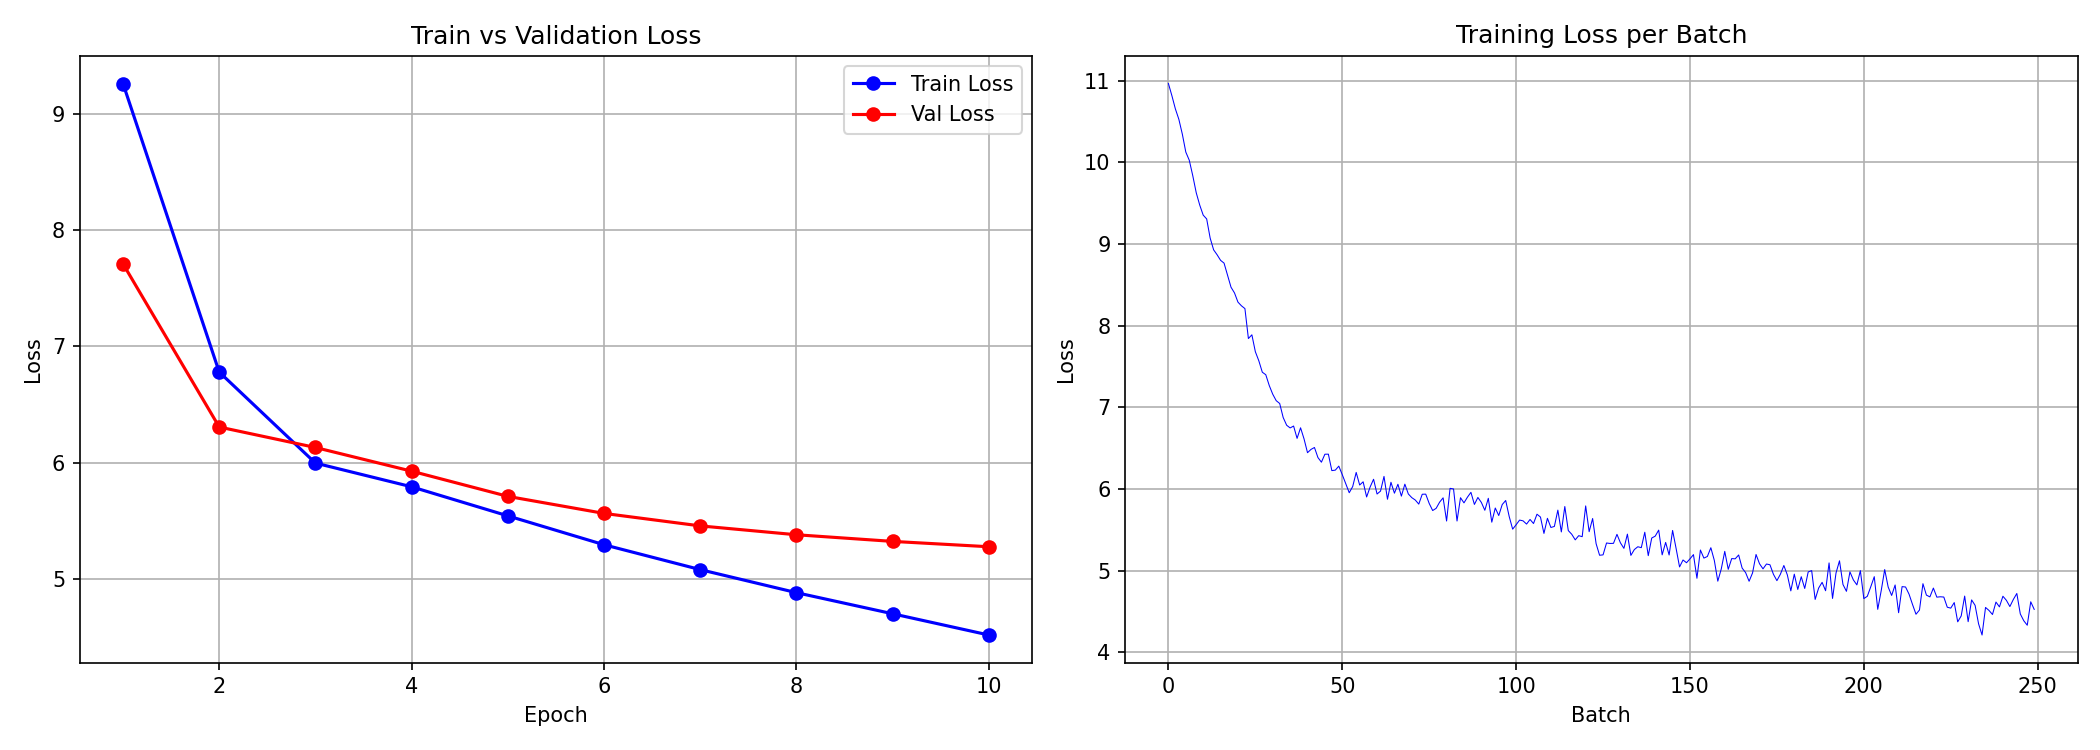
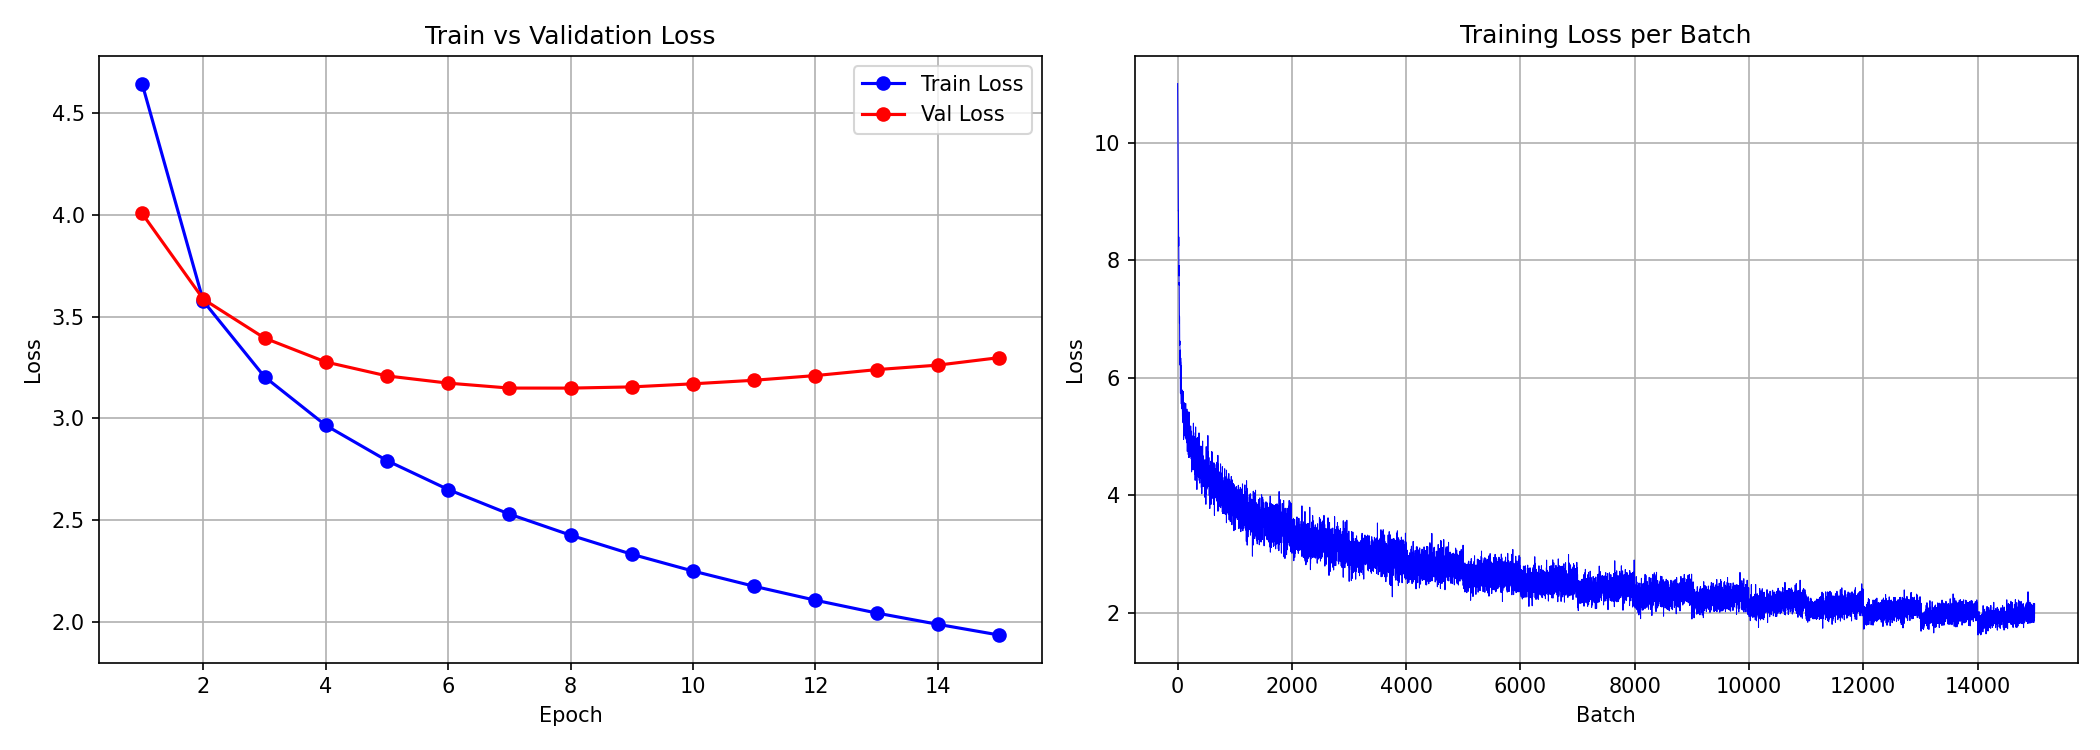
trying with hugging face/coco since flickr doesnt work

diff --git a/download_coco.py b/download_coco.py
@@ -1,0 +1,78 @@
+import torch
+import os
+from datasets import load_dataset
+from transformers import CLIPModel, CLIPProcessor
+
+device = torch.device("cuda" if torch.cuda.is_available() else "cpu")
+print(f"Using device: {device}")
+
+clip = CLIPModel.from_pretrained("openai/clip-vit-base-patch32").to(device)
+clip_processor = CLIPProcessor.from_pretrained("openai/clip-vit-base-patch32")
+clip.eval()
+
+os.makedirs('data/clip_features', exist_ok=True)
+
+print("Loading Flickr30k dataset...")
+dataset = load_dataset("nlphuji/flickr30k", split="test")
+print(f"Total examples: {len(dataset)}")
+
+all_features = []
+all_stories = []
+all_story_ids = []
+batch_size = 32
+max_stories = 20000
+
+for i in range(0, min(len(dataset), max_stories), batch_size):
+    batch = dataset[i:i + batch_size]
+
+    images = []
+    captions = []
+    ids = []
+
+    for j in range(len(batch['image'])):
+        try:
+            img = batch['image'][j].convert('RGB')
+            caps = batch['caption'][j]
+            if isinstance(caps, list):
+                caption = ' '.join(caps)
+            else:
+                caption = str(caps)
+            images.append(img)
+            captions.append(caption)
+            ids.append(str(i + j))
+        except:
+            continue
+
+    if len(images) == 0:
+        continue
+
+    try:
+        inputs = clip_processor(images=images, return_tensors="pt")
+        inputs = {k: v.to(device) for k, v in inputs.items()}
+
+        with torch.no_grad():
+            output = clip.vision_model(pixel_values=inputs["pixel_values"])
+            features = output.pooler_output.cpu()
+
+        for k in range(len(images)):
+            single_feat = features[k].unsqueeze(0).repeat(5, 1)
+            all_features.append(single_feat)
+            all_stories.append(captions[k])
+            all_story_ids.append(ids[k])
+
+    except Exception as e:
+        print(f"  Batch failed: {e}")
+        continue
+
+    if len(all_features) % 1000 == 0 and len(all_features) > 0:
+        print(f"Processed {len(all_features)} stories")
+
+# Final save
+final = {
+    'features': torch.stack(all_features),
+    'stories': all_stories,
+    'story_ids': all_story_ids
+}
+torch.save(final, 'data/clip_features/train_features.pt')
+print(f"\nDone! Saved {len(all_features)} stories")
+print(f"Feature tensor shape: {final['features'].shape}")

diff --git a/train.py b/train.py
@@ -16,7 +16,7 @@ max_len = 200
 clip_embed_dim = 768
 batch_size = 16
 learning_rate = 3e-4
-num_epochs = 10
+num_epochs = 15
 device = torch.device("cuda" if torch.cuda.is_available() else "cpu")
 
 print(f"Using device: {device}")
@@ -218,43 +218,12 @@ print(f"Loaded best model from epoch {best['epoch']}")
 test_loss = run_epoch(test_loader, training=False)
 print(f"Test Loss: {test_loss:.4f}")
 
-
 # --- GENERATING SAMPLE STORIES ---
 print("\n" + "=" * 50)
 print("Generating sample stories")
 print("=" * 50)
 
-import json
-
 tokenizer = AutoTokenizer.from_pretrained("gpt2")
-
-# Load VIST data to find image URLs for test stories
-with open('data/sis/train.story-in-sequence.json') as f:
-    vist_data = json.load(f)
-
-# Build lookup: story_id -> image URLs
-img_lookup = {}
-for img in vist_data['images']:
-    if 'url_o' in img:
-        img_lookup[img['id']] = img['url_o']
-
-stories_raw = {}
-for ann in vist_data['annotations']:
-    ann = ann[0]
-    sid = ann['story_id']
-    if sid not in stories_raw:
-        stories_raw[sid] = []
-    stories_raw[sid].append(ann)
-
-story_to_urls = {}
-for sid, parts in stories_raw.items():
-    parts = sorted(parts, key=lambda x: x['worker_arranged_photo_order'])
-    urls = []
-    for p in parts:
-        fid = p['photo_flickr_id']
-        if fid in img_lookup:
-            urls.append(img_lookup[fid])
-    story_to_urls[sid] = urls
 
 model.eval()
 with torch.no_grad():
@@ -267,14 +236,7 @@ with torch.no_grad():
         generated = model.generate(start_tokens, image_feat, max_new_tokens=100, temperature=0.8, top_k=40)
         story = tokenizer.decode(generated[0], skip_special_tokens=True)
 
-        # Find image URLs for this story
-        story_id = test_dataset.story_ids[i]
-        urls = story_to_urls.get(story_id, [])
-
         print(f"\nStory {i+1}:")
-        print(f"  Images:")
-        for url in urls:
-            print(f"    {url}")
         print(f"  Original: {test_dataset.stories[i][:200]}...")
         print(f"  Generated: {story[:200]}...")
 
